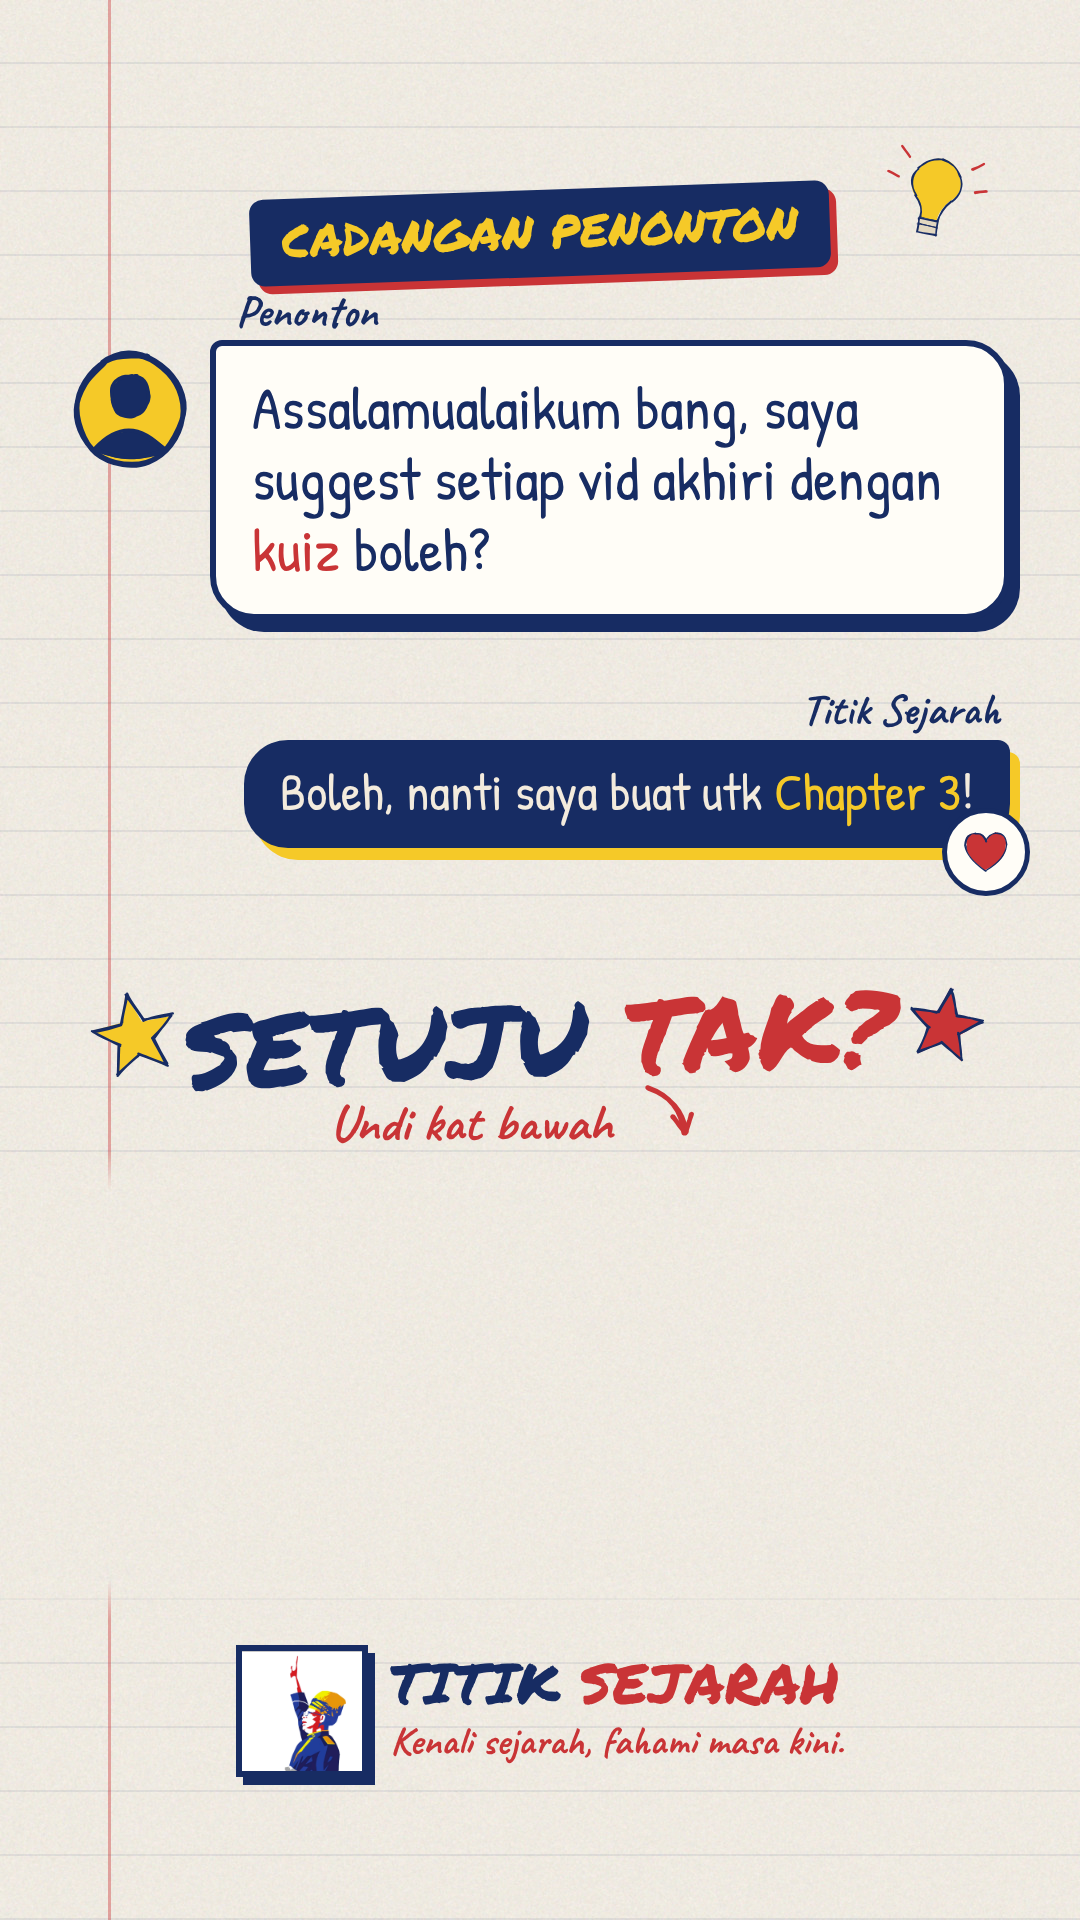
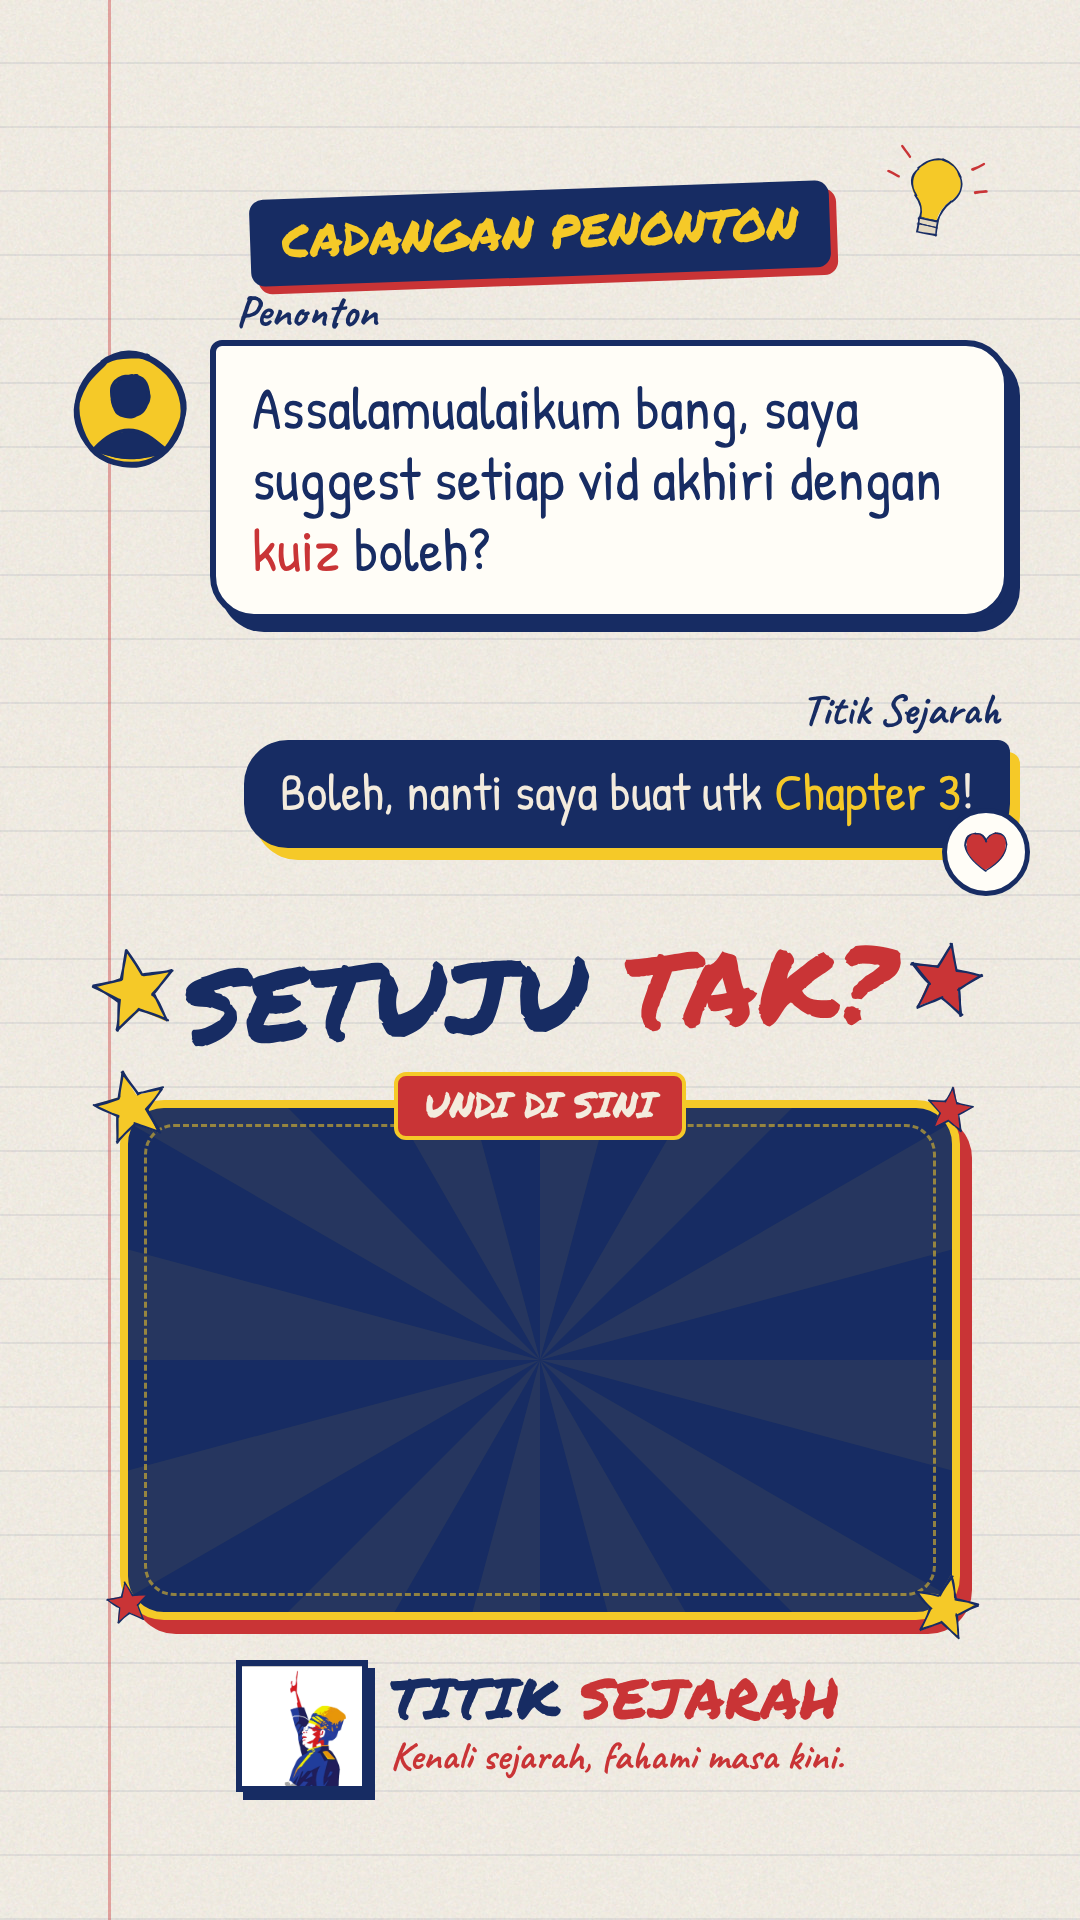
Kuiz poster: navy poll stage so TikTok's white poll sticker stands out
Claude-Session: https://claude.ai/code/session_01J6XTmEEfaGyASqYC8kTvFV

Changed region(s): [[0.0917, 0.4688, 0.9167, 0.9375]]

diff --git a/engine/poster_kuiz.html b/engine/poster_kuiz.html
@@ -30,10 +30,13 @@ html,body{margin:0;width:1080px;height:1920px;overflow:hidden}
 .react svg{width:48px}
 .ask{font-family:'Marker';font-size:104px;line-height:1}
 .ask2{font-family:'Caveat';font-weight:700;font-size:52px;color:#C93436}
-/* reserved poll area: plain paper, no lines, no graphics */
-.poll{left:0;top:1150px;width:1080px;height:470px;background:#F3EBDD url(paper.jpg);background-position:0 -1150px;
-  -webkit-mask-image:linear-gradient(to bottom,transparent 0,#000 40px,#000 430px,transparent 470px)}
-.brand{left:0;width:1080px;top:1645px;display:flex;justify-content:center;align-items:center;gap:22px}
+/* poll stage: navy panel so TikTok's white poll sticker stands out */
+.stage{left:120px;top:1100px;width:840px;height:520px;box-sizing:border-box;background:#172C63;border:8px solid #F5C928;border-radius:44px;
+  box-shadow:12px 14px 0 #C93436;overflow:hidden}
+.stage::before{content:'';position:absolute;inset:16px;border:3px dashed rgba(245,201,40,.55);border-radius:30px}
+.tab{left:0;width:1080px;top:1072px;text-align:center}
+.tab span{display:inline-block;background:#C93436;color:#F3EBDD;font-family:'Marker';font-size:36px;padding:2px 26px 6px;border-radius:12px;border:4px solid #F5C928}
+.brand{left:0;width:1080px;top:1660px;display:flex;justify-content:center;align-items:center;gap:22px}
 .brand .dp{width:120px;height:120px;border:6px solid #172C63;background:#fff url(../assets/brand/titik-sejarah-dp-square.jpg) center/cover;box-shadow:7px 8px 0 #172C63;flex:none}
 .brand .t{font-family:'Marker';font-size:56px;line-height:.95}
 .brand .tg{font-family:'Caveat';font-weight:700;font-size:40px;color:#C93436;margin-top:6px}
@@ -66,14 +69,26 @@ add('Boleh, nanti saya buat utk <span style="color:#F5C928">Chapter 3</span>!', 
 add(D.heart(C.red), '', 'abs react');
 
 // 4) Poll prompt (above the reserved area)
-add('SETUJU <span class="red">TAK?</span>', 'top:985px;transform:rotate(-2deg)', 'abs ctr ask');
-add('Undi kat bawah', 'left:330px;top:1090px', 'abs ask2');
-add(D.arrow(10, 10, 60, 70, { w: 80, h: 90, color: C.red, sw: 6, bend: -0.3 }), 'left:640px;top:1080px;width:60px');
-add(D.star(C.gold), 'left:90px;top:990px;width:90px;transform:rotate(-12deg)');
-add(D.star(C.red), 'left:905px;top:985px;width:80px;transform:rotate(10deg)');
+add('SETUJU <span class="red">TAK?</span>', 'top:940px;transform:rotate(-2deg)', 'abs ctr ask');
+add(D.star(C.gold), 'left:90px;top:945px;width:90px;transform:rotate(-12deg)');
+add(D.star(C.red), 'left:905px;top:940px;width:80px;transform:rotate(10deg)');
 
-// 5) Reserved poll area (1150–1620): intentionally empty
-add('', '', 'abs poll');
+// 5) Poll stage (1100–1620): navy panel; centre left clear for the TikTok poll sticker
+{
+  // faint gold rays from the centre, for a spotlight feel (kept very subtle so white text stays crisp)
+  let rays = '';
+  for (let i = 0; i < 24; i += 2) {
+    const a1 = (i * Math.PI) / 12, a2 = a1 + Math.PI / 12;
+    rays += `<polygon points="412,252 ${412 + 900 * Math.cos(a1)},${252 + 900 * Math.sin(a1)} ${412 + 900 * Math.cos(a2)},${252 + 900 * Math.sin(a2)}" fill="${C.gold}" opacity=".07"/>`;
+  }
+  add(`<svg viewBox="0 0 824 504" width="824" height="504" style="position:absolute;inset:0">${rays}</svg>`, '', 'abs stage');
+}
+// corner stars on the frame
+add(D.star(C.gold), 'left:92px;top:1068px;width:78px;transform:rotate(-14deg)');
+add(D.star(C.gold), 'left:910px;top:1572px;width:70px;transform:rotate(12deg)');
+add(D.star(C.red), 'left:925px;top:1085px;width:50px;transform:rotate(8deg)');
+add(D.star(C.red), 'left:105px;top:1580px;width:46px;transform:rotate(-8deg)');
+add('<span>UNDI DI SINI</span>', '', 'abs tab');
 
 // 6) Brand sign-off with the official profile picture (unaltered)
 add('<div class="dp"></div><div><div class="t">TITIK <span class="red">SEJARAH</span></div><div class="tg">Kenali sejarah, fahami masa kini.</div></div>', '', 'abs brand');
